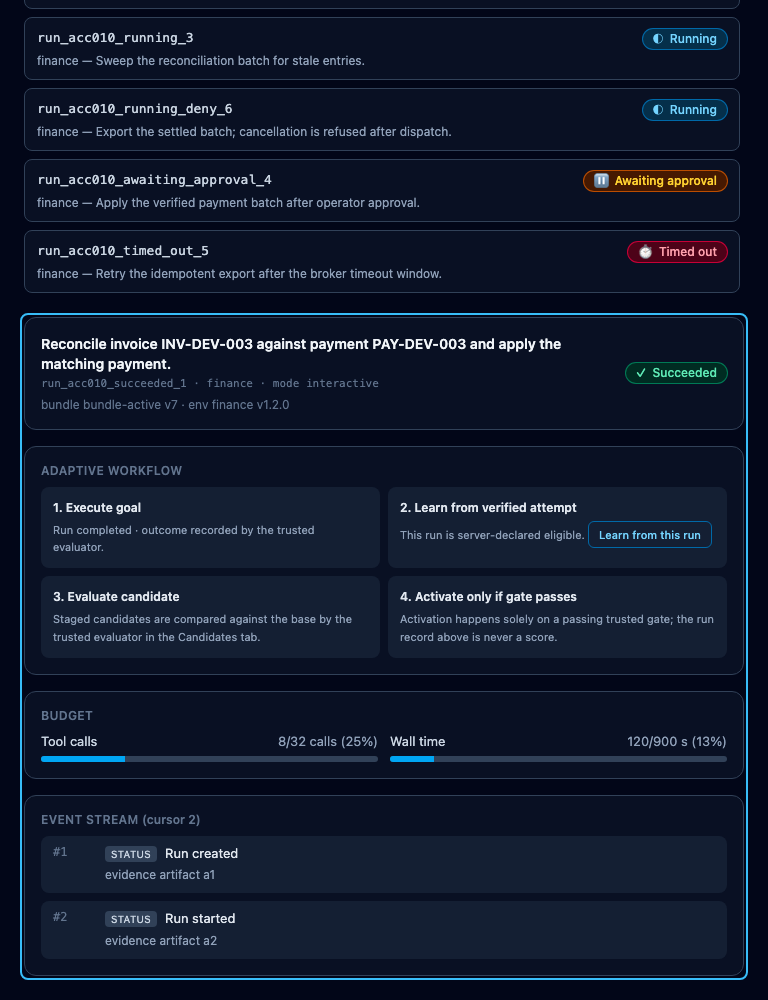
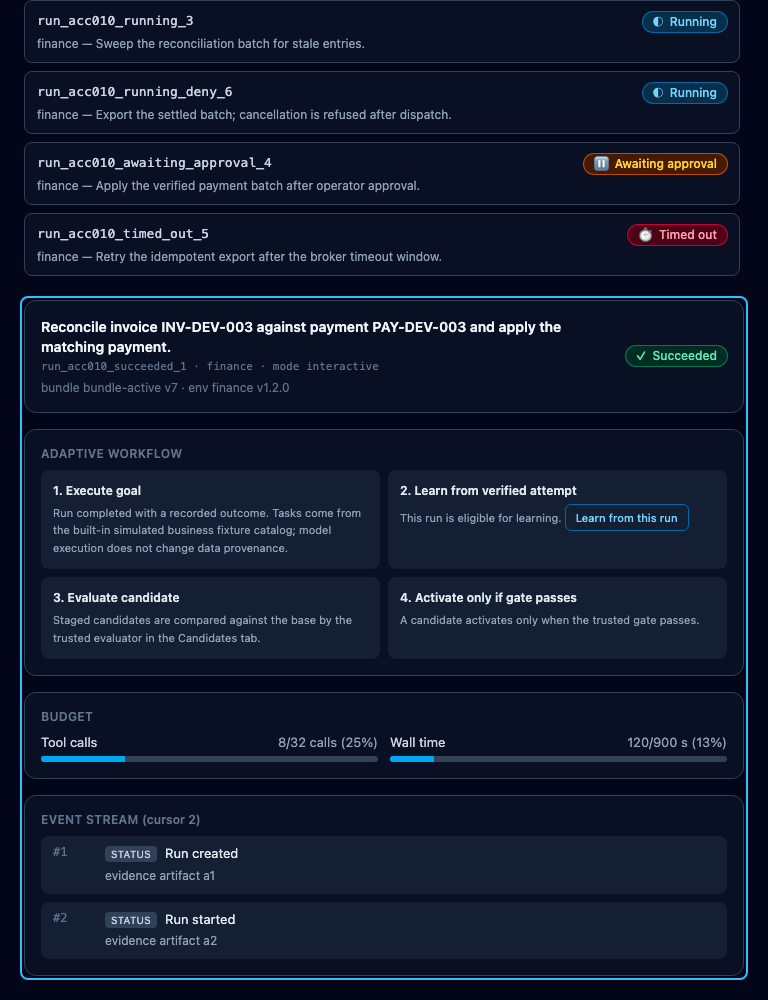
fix(console): single modal keydown listener; explicit return-focus prop; exhaustive plain workflow statuses
- Modal registers ONE document keydown listener (the duplicate panel listener made one Tab press run the wrap twice and Escape could close twice); stable onCloseRef keeps the subscription per open
- focus restoration uses an explicit returnFocusTo ref/target prop on Modal (no test-specific data-attribute markers in product code); the learning dialog passes the extant learning-cycle button as target
- WorkflowStrip: exhaustive status phrase map (queued/running/awaiting_approval/succeeded/failed/cancelled/timed_out); 'outcome recorded' claimed only when outcomeRef is actually present; plain wording (drops server-declared/declared per run/never-a-score phrasing)
- regressions: Escape closes exactly once; Tab advances one position per press across the trap; both visible events retained across a private gap (kept); truthful fixture provenance labels kept
- 70/70 tests, tsc clean, build clean; browser QA rerun green at 375/768/1440 with cancellation success/failure, learning carry, EOF Closed settlement, focus return

diff --git a/console/src/ui/qa-regressions.test.tsx b/console/src/ui/qa-regressions.test.tsx
@@ -161,7 +161,38 @@ describe("qa regressions: createRun recovery and honesty", () => {
     expect(await screen.findByText(/Proposal validation passed — this is not a performance result/)).toBeInTheDocument();
   });
 
-  it("shows the workflow strip and Learn-from-this-run only for server-declared eligible runs", async () => {
+  it("Modal Escape closes exactly once and Tab wraps one step per press", async () => {
+    // use the new-run dialog: onClose count observable via the dialog state
+    const user = userEvent.setup();
+    render(<App transport={createSimulationTransport({ disconnectAfterEvents: 0 })} />);
+    await screen.findAllByRole("button", { name: /run-sim-1001/ });
+    await user.click(screen.getAllByRole("button", { name: "New run" })[0]);
+    const dialog = await screen.findByRole("dialog", { name: "Create run" });
+    // move focus to the last focusable (Create run), then Tab: must wrap to the first field in ONE press (no double-jump)
+    const createBtn = within(dialog).getByRole("button", { name: "Create run" });
+    (createBtn as HTMLButtonElement).focus();
+    expect(createBtn).toHaveFocus();
+    await user.keyboard("{Tab}");
+    const focusables = dialog.querySelectorAll<HTMLElement>("a[href], button:not([disabled]), input, select, textarea");
+    const positions = focusables.length;
+    const afterOne = document.activeElement;
+    await user.keyboard("{Tab}");
+    const afterTwo = document.activeElement;
+    await user.keyboard("{Tab}");
+    const afterThree = document.activeElement;
+    // no double-execution: one press advances exactly one position in the trap
+    expect(afterTwo).not.toBe(afterOne);
+    expect(afterThree).not.toBe(afterTwo);
+    expect(within(dialog).queryAllByRole("button", { name: "Create run" }).length).toBe(1);
+    expect(positions).toBeGreaterThan(1);
+    // Escape closes and does not re-fire (dialog stays closed)
+    await user.keyboard("{Escape}");
+    await waitFor(() => expect(screen.queryByRole("dialog")).not.toBeInTheDocument());
+    await user.keyboard("{Escape}");
+    expect(screen.queryByRole("dialog")).not.toBeInTheDocument();
+  });
+
+  it("shows the workflow strip and Learn-from-this-run only for eligible runs", async () => {
     const user = userEvent.setup();
     const sim = createSimulationTransport({ disconnectAfterEvents: 0 });
     const runs = await sim.listRuns();
@@ -181,7 +212,7 @@ describe("qa regressions: createRun recovery and honesty", () => {
     // select the ineligible run: guidance replaces the action, no fake progress
     await user.click(screen.getAllByRole("button", { name: /run-sim-1001/ })[0]);
     await waitFor(() => expect(screen.queryByRole("button", { name: "Learn from this run" })).not.toBeInTheDocument());
-    expect(screen.getByText(/Eligible after a server-verified outcome/)).toBeInTheDocument();
+    expect(screen.getByText(/Becomes eligible after a verified outcome/)).toBeInTheDocument();
   });
 
   it("lists a run whose learningEligible flips true after the terminal outcome, without a full reload (QA run_a1662f…)", async () => {

diff --git a/console/src/views/RunView.tsx b/console/src/views/RunView.tsx
@@ -762,6 +762,17 @@ function ApprovalDialog({
  *  the action when the server declares learningEligible; later stages point
  *  to the Candidates tab where evaluation gates activation. No stage is ever
  *  marked complete without server data. */
+/** Exhaustive, plain status phrasing for the workflow strip. */
+const RUN_STATUS_PHRASE: Record<RunRecord["status"], string> = {
+  queued: "is queued",
+  running: "is in progress",
+  awaiting_approval: "is awaiting approval",
+  succeeded: "completed",
+  failed: "failed",
+  cancelled: "was cancelled",
+  timed_out: "timed out",
+};
+
 function WorkflowStrip({
   selected,
   onLearnFromRun,
@@ -774,30 +785,31 @@ function WorkflowStrip({
       label: "1. Execute goal",
       caption: (
         <>
-          Run {selected.status === "succeeded" ? "completed" : selected.status === "failed" ? "failed" : `in progress (${selected.status})`} · outcome recorded by the trusted
-          evaluator. Tasks come from the built-in simulated business fixture catalog; model execution does not change data provenance.
+          Run {RUN_STATUS_PHRASE[selected.status] ?? `in progress (${selected.status})`}
+          {selected.outcomeRef ? " with a recorded outcome." : "."} Tasks come from the built-in simulated
+          business fixture catalog; model execution does not change data provenance.
         </>
       ),
     },
     {
       label: "2. Learn from verified attempt",
-      caption:
-        selected.learningEligible ? (
-          <>This run is server-declared eligible.{" "}
-            <button
-              type="button"
-              onClick={() => onLearnFromRun(selected.runId)}
-              className="rounded-md border border-sky-700 px-2.5 py-1 text-[11px] font-medium text-sky-300 hover:bg-sky-950/60"
-            >
-              Learn from this run
-            </button>
-          </>
-        ) : (
-          <>Eligible after a server-verified outcome (declared per run).</>
-        ),
+      caption: selected.learningEligible ? (
+        <>
+          This run is eligible for learning.{" "}
+          <button
+            type="button"
+            onClick={() => onLearnFromRun(selected.runId)}
+            className="rounded-md border border-sky-700 px-2.5 py-1 text-[11px] font-medium text-sky-300 hover:bg-sky-950/60"
+          >
+            Learn from this run
+          </button>
+        </>
+      ) : (
+        <>Becomes eligible after a verified outcome.</>
+      ),
     },
     { label: "3. Evaluate candidate", caption: <>Staged candidates are compared against the base by the trusted evaluator in the Candidates tab.</> },
-    { label: "4. Activate only if gate passes", caption: <>Activation happens solely on a passing trusted gate; the run record above is never a score.</> },
+    { label: "4. Activate only if gate passes", caption: <>A candidate activates only when the trusted gate passes.</> },
   ];
   return (
     <nav aria-label="Adaptive workflow" className="rounded-xl border border-slate-700 bg-slate-900/60 p-4">

diff --git a/console/src/views/CandidatesView.tsx b/console/src/views/CandidatesView.tsx
@@ -1,4 +1,4 @@
-import { useEffect, useState } from "react";
+import { useEffect, useRef, useState, type RefObject } from "react";
 import type { ConsoleTransport, LearningCycleInput } from "../api/transport";
 import type { CandidateDiff, EvaluationJob, EvaluationReportProjection, RunRecord } from "../api/types";
 import { StatusBadge } from "../components/StatusBadge";
@@ -40,15 +40,11 @@ export function CandidatesView({
       setCycleRunId(learningRequest.runId);
       setCycleOpen(true);
       onLearningRequestConsumed();
-      // the dialog was invoked from another tab: its focus-return target is
-      // the learning-cycle action here (the original invoker unmounted)
-      requestAnimationFrame(() => {
-        document.querySelector("[data-acc010-learning-cycle]")?.setAttribute("data-acc010-focus-return", "");
-      });
     }
     // eslint-disable-next-line react-hooks/exhaustive-deps
   }, [learningRequest]);
   const [notice, setNotice] = useState<{ tone: "good" | "bad"; text: string } | null>(null);
+  const learningButtonRef = useRef<HTMLButtonElement>(null);
   const [evalJobs, setEvalJobs] = useState<EvaluationJob[] | null>(null);
   const [evalJobsError, setEvalJobsError] = useState<string | null>(null);
 
@@ -314,6 +310,7 @@ export function CandidatesView({
         runs={eligibleRuns}
         busy={cycleBusy}
         preselectedRunId={cycleRunId}
+        returnFocusTo={learningButtonRef}
         onSubmit={(input) => void runCycle(input)}
       />
 
@@ -383,7 +380,6 @@ function LearningCycleButton({ busy, onRun }: { busy: boolean; onRun: () => void
         type="button"
         onClick={onRun}
         disabled={busy}
-        data-acc010-learning-cycle=""
         className="rounded-md bg-sky-600 px-4 py-1.5 text-sm font-medium text-white hover:bg-sky-500 disabled:opacity-60"
         title="Select a completed development run; the runtime generates the proposal and evidence"
       >
@@ -399,6 +395,7 @@ function LearningCycleModal({
   runs,
   busy,
   preselectedRunId,
+  returnFocusTo,
   onSubmit,
 }: {
   open: boolean;
@@ -407,6 +404,7 @@ function LearningCycleModal({
   busy: boolean;
   /** run carried in from "Learn from this run" (or a previous dialog session) */
   preselectedRunId?: string;
+  returnFocusTo?: RefObject<HTMLButtonElement | null>;
   onSubmit: (input: LearningCycleInput) => void;
 }) {
   const [runId, setRunId] = useState(preselectedRunId ?? "");

diff --git a/console/src/components/ui.tsx b/console/src/components/ui.tsx
@@ -1,4 +1,4 @@
-import { useEffect, useRef, type ReactNode } from "react";
+import { useEffect, useRef, type ReactNode, type RefObject } from "react";
 
 export function Banner({
   tone,
@@ -53,11 +53,15 @@ export function Modal({
   title,
   onClose,
   children,
+  returnFocusTo,
 }: {
   open: boolean;
   title: string;
   onClose: () => void;
   children: ReactNode;
+  /** explicit focus-return target when the invoking control unmounts
+   *  (defaults to the element focused at open) */
+  returnFocusTo?: RefObject<HTMLElement | null>;
 }) {
   const panelRef = useRef<HTMLDivElement>(null);
   const restoreRef = useRef<HTMLElement | null>(null);
@@ -65,6 +69,8 @@ export function Modal({
   // identity must not tear down listeners or steal focus mid-render
   const onCloseRef = useRef(onClose);
   onCloseRef.current = onClose;
+  const returnFocusToRef = useRef(returnFocusTo);
+  returnFocusToRef.current = returnFocusTo;
 
   useEffect(() => {
     if (!open) return;
@@ -107,17 +113,11 @@ export function Modal({
       // focus-return target (set when the invoking control unmounts, e.g., a
       // tab switch carried the action elsewhere) takes precedence; otherwise
       // restore to the captured element when it is still connected.
-      // prefer the explicitly marked target (if still extant), then the
-      // carried action's learning-cycle control, then the captured element
-      const marked = document.querySelector<HTMLElement>("[data-acc010-focus-return]");
-      if (marked?.isConnected) {
-        marked.focus();
-        marked.removeAttribute("data-acc010-focus-return");
-        return;
-      }
-      const cycle = document.querySelector<HTMLElement>("[data-acc010-learning-cycle]");
-      if (cycle?.isConnected) {
-        cycle.focus();
+      // prefer the explicit return-focus target when provided and extant,
+      // then the element captured at open
+      const explicit = returnFocusToRef.current?.current;
+      if (explicit && explicit.isConnected) {
+        explicit.focus();
         return;
       }
       const restore = restoreRef.current;
